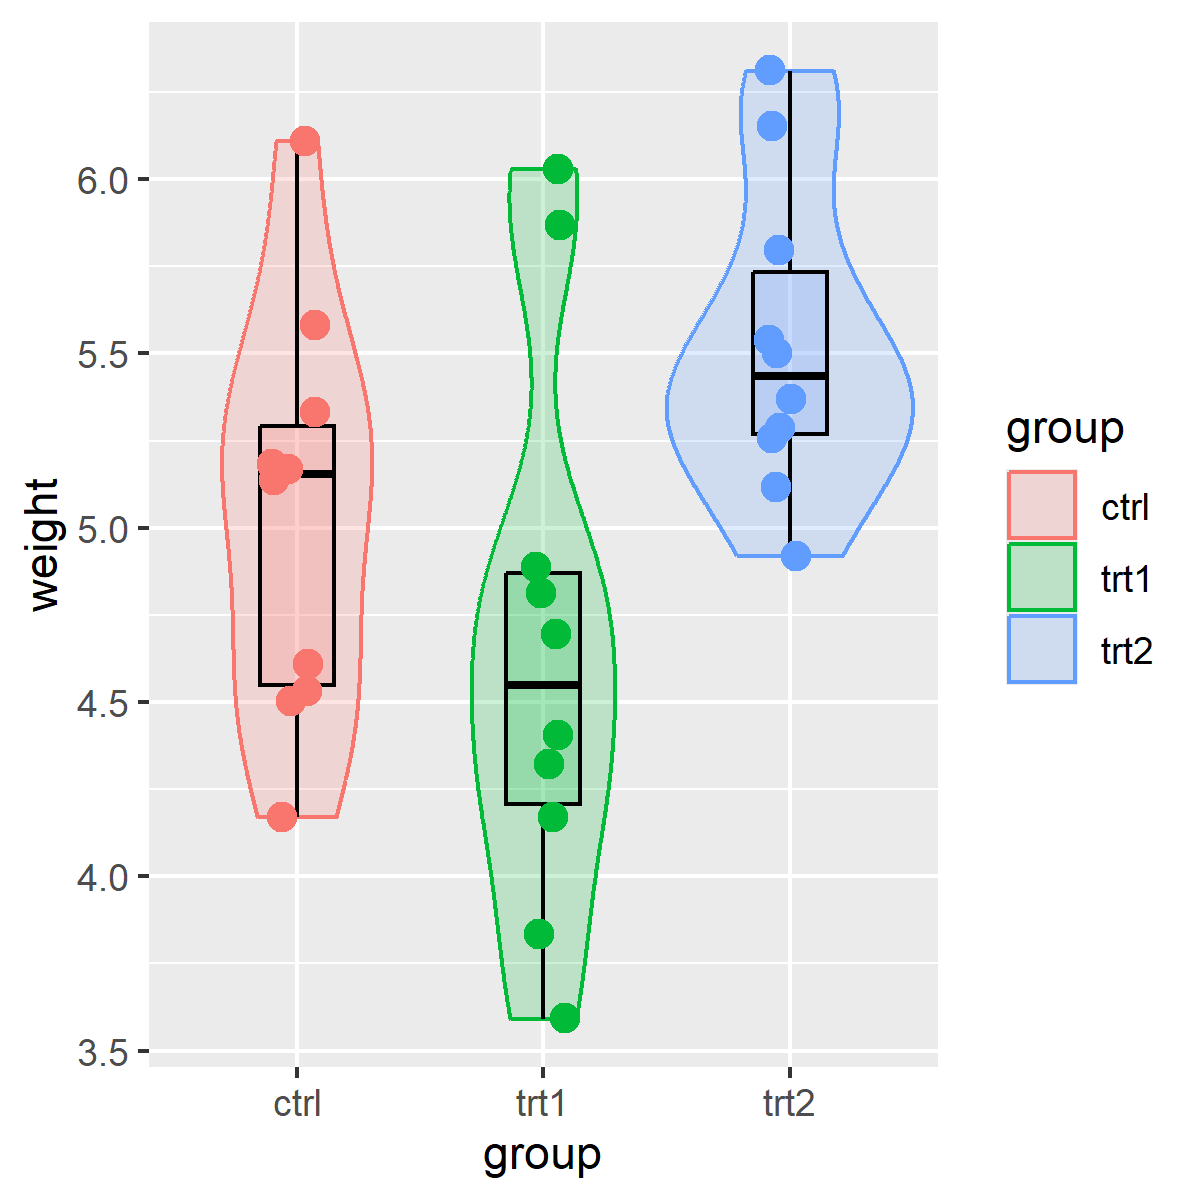
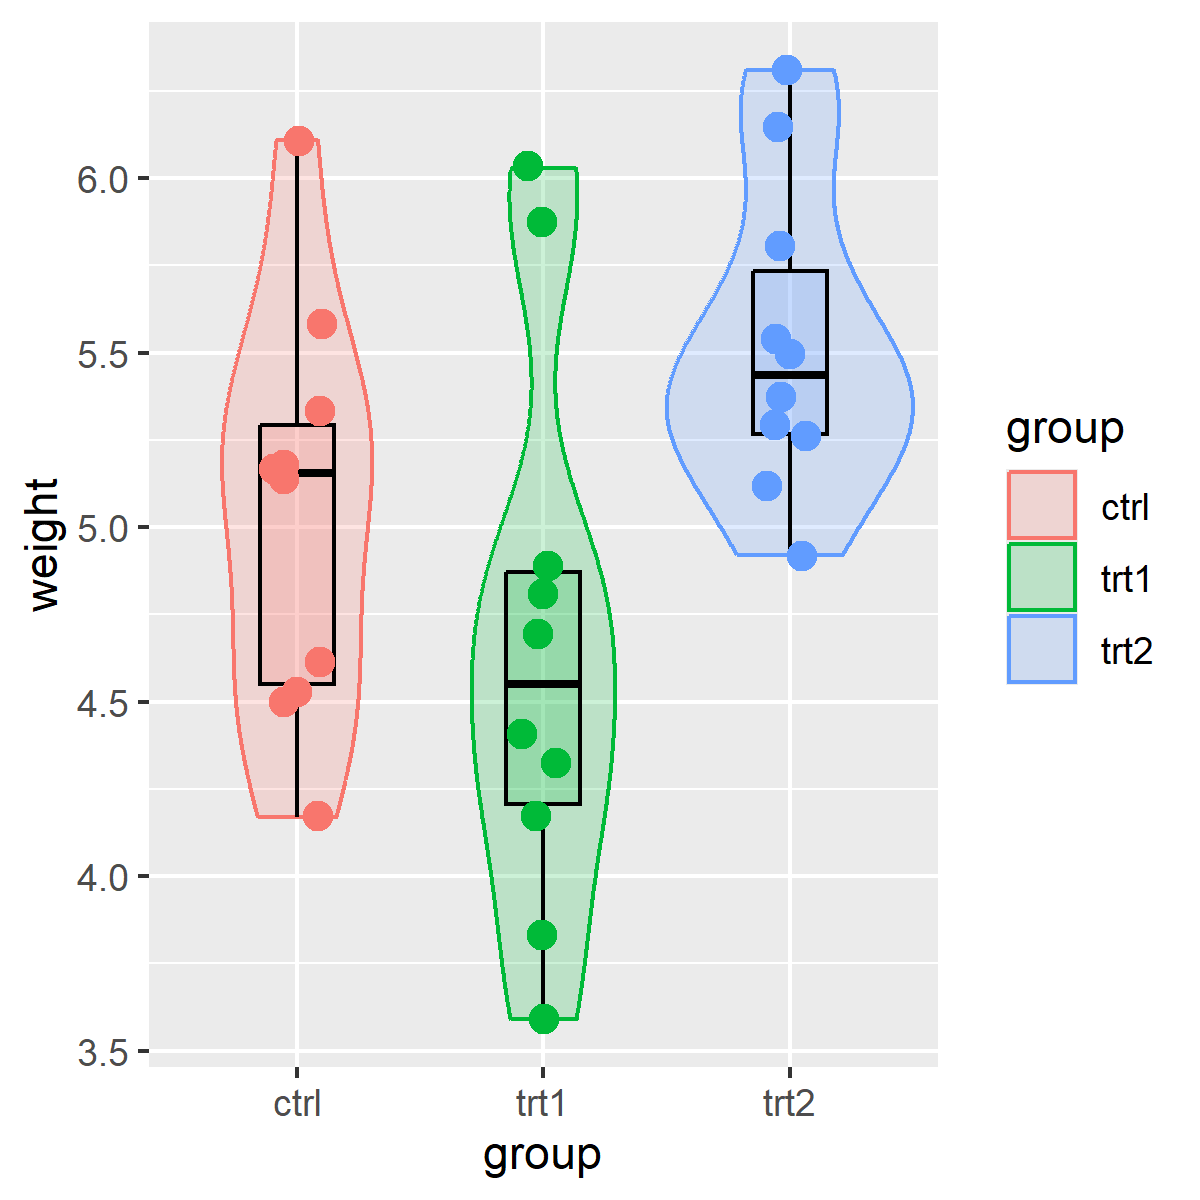
.

diff --git a/docs/posts/boxplot_violin/index.html b/docs/posts/boxplot_violin/index.html
@@ -826,7 +826,7 @@ window.document.addEventListener("DOMContentLoaded", function (event) {
 });
 </script>
 </div> <!-- /content -->
-<script>var lightboxQuarto = GLightbox({"loop":false,"descPosition":"bottom","selector":".lightbox","closeEffect":"zoom","openEffect":"zoom"});
+<script>var lightboxQuarto = GLightbox({"closeEffect":"zoom","descPosition":"bottom","loop":false,"selector":".lightbox","openEffect":"zoom"});
 window.onload = () => {
   lightboxQuarto.on('slide_before_load', (data) => {
     const { slideIndex, slideNode, slideConfig, player, trigger } = data;

diff --git a/docs/posts/chemical_trace_analysis/index.html b/docs/posts/chemical_trace_analysis/index.html
@@ -742,7 +742,7 @@ window.document.addEventListener("DOMContentLoaded", function (event) {
 });
 </script>
 </div> <!-- /content -->
-<script>var lightboxQuarto = GLightbox({"selector":".lightbox","openEffect":"zoom","descPosition":"bottom","closeEffect":"zoom","loop":false});
+<script>var lightboxQuarto = GLightbox({"loop":false,"openEffect":"zoom","selector":".lightbox","closeEffect":"zoom","descPosition":"bottom"});
 window.onload = () => {
   lightboxQuarto.on('slide_before_load', (data) => {
     const { slideIndex, slideNode, slideConfig, player, trigger } = data;

diff --git a/docs/posts/t_test/index.html b/docs/posts/t_test/index.html
@@ -742,7 +742,7 @@ window.document.addEventListener("DOMContentLoaded", function (event) {
 });
 </script>
 </div> <!-- /content -->
-<script>var lightboxQuarto = GLightbox({"selector":".lightbox","closeEffect":"zoom","openEffect":"zoom","loop":false,"descPosition":"bottom"});
+<script>var lightboxQuarto = GLightbox({"closeEffect":"zoom","descPosition":"bottom","openEffect":"zoom","loop":false,"selector":".lightbox"});
 window.onload = () => {
   lightboxQuarto.on('slide_before_load', (data) => {
     const { slideIndex, slideNode, slideConfig, player, trigger } = data;
